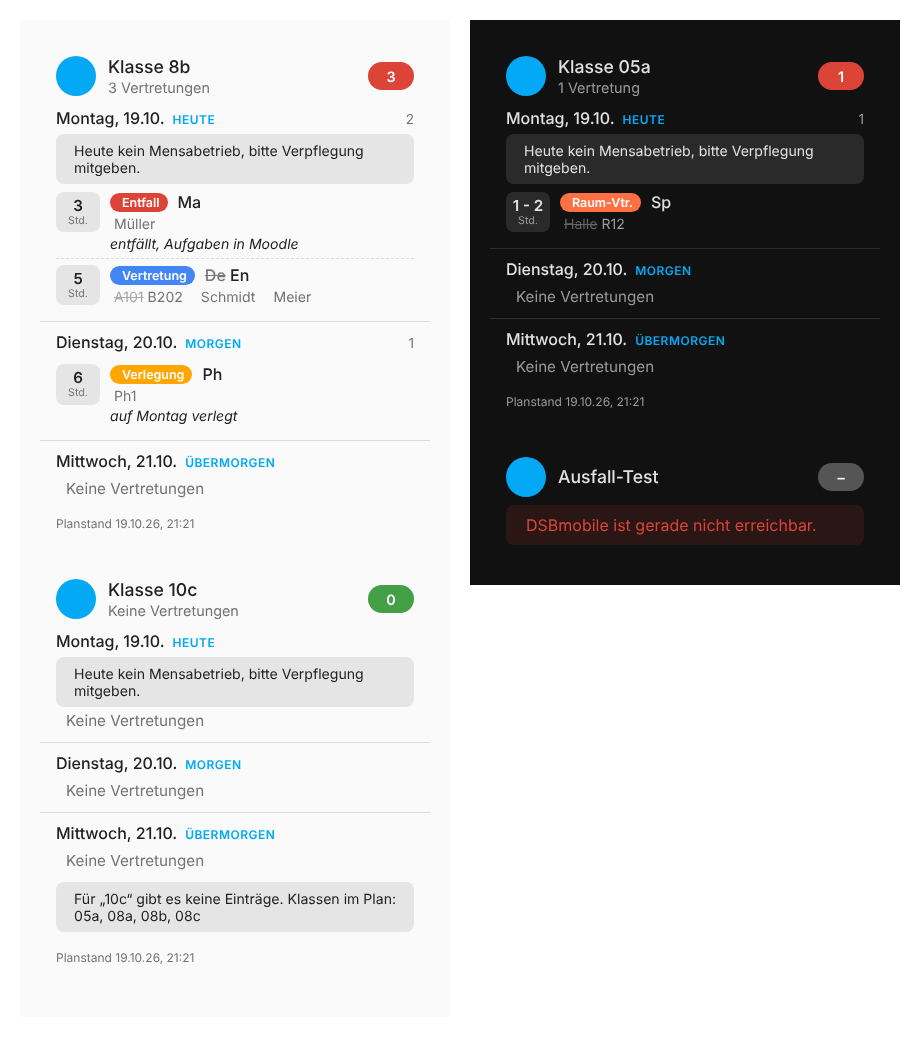
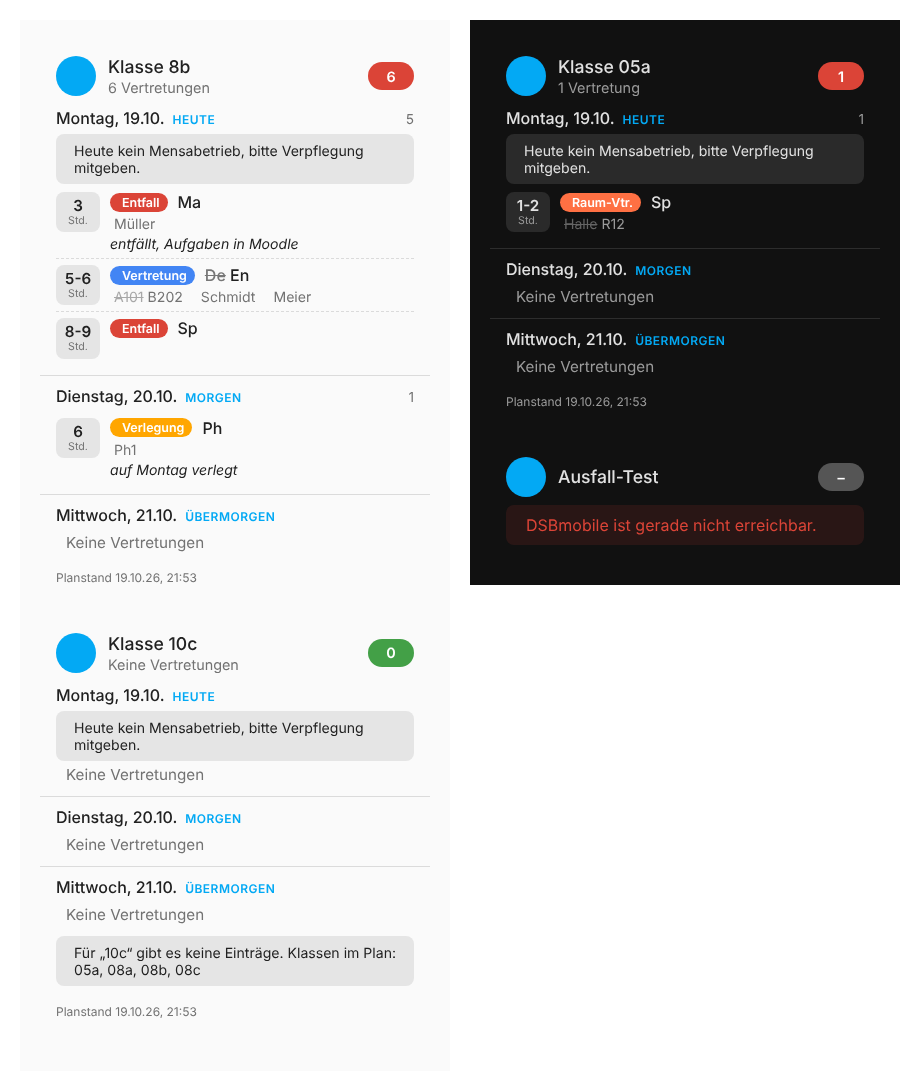
v1.1.0: Folgestunden in der Karte zusammenfassen

diff --git a/custom_components/dsb_vertretungsplan/www/dsb-vertretungsplan-card.js b/custom_components/dsb_vertretungsplan/www/dsb-vertretungsplan-card.js
@@ -12,7 +12,7 @@
 
 const CARD_TAG = "dsb-vertretungsplan-card";
 const EDITOR_TAG = "dsb-vertretungsplan-card-editor";
-const CARD_VERSION = "1.0.1";
+const CARD_VERSION = "1.1.0";
 
 const CLASS_RE = /^(\d{1,2})([a-zäöü]*)$/;
 const WEEKDAYS = ["Sonntag", "Montag", "Dienstag", "Mittwoch", "Donnerstag", "Freitag", "Samstag"];
@@ -35,6 +35,40 @@ function normalizeClass(value) {
   const m = CLASS_RE.exec(v);
   if (!m) return v;
   return `${m[1].padStart(2, "0")}${m[2]}`;
+}
+
+/** Parse "5", "5 - 6", "5-6", "5./6." into [first, last] or null. */
+function lessonRange(lesson) {
+  const nums = String(lesson || "").match(/\d+/g);
+  if (!nums || nums.length === 0) return null;
+  const first = parseInt(nums[0], 10);
+  const last = parseInt(nums[nums.length - 1], 10);
+  return last >= first ? [first, last] : [last, first];
+}
+
+function sameSubstitution(a, b) {
+  const fields = ["type", "classes", "subject", "room", "substitute", "teacher", "text"];
+  if (fields.some((f) => String(a[f] || "") !== String(b[f] || ""))) return false;
+  return JSON.stringify(a.changes || {}) === JSON.stringify(b.changes || {});
+}
+
+/**
+ * Merge consecutive lessons with identical content ("5. Std En", "6. Std En")
+ * into one row ("5-6"). Entries are expected in lesson order per day.
+ */
+function mergeConsecutive(entries) {
+  const result = [];
+  for (const entry of entries) {
+    const range = lessonRange(entry.lesson);
+    const last = result[result.length - 1];
+    if (last && range && last._range && sameSubstitution(last, entry) && range[0] === last._range[1] + 1) {
+      last._range = [last._range[0], range[1]];
+      last.lesson = `${last._range[0]}-${last._range[1]}`;
+      continue;
+    }
+    result.push({ ...entry, _range: range, lesson: range ? (range[0] === range[1] ? String(range[0]) : `${range[0]}-${range[1]}`) : entry.lesson });
+  }
+  return result;
 }
 
 function typeStyle(type) {
@@ -202,6 +236,7 @@ class DsbVertretungsplanCard extends HTMLElement {
       show_info: true,
       show_footer: true,
       compact: false,
+      merge_lessons: true,
       ...config,
     };
     if (!this.shadowRoot) this.attachShadow({ mode: "open" });
@@ -330,7 +365,8 @@ class DsbVertretungsplanCard extends HTMLElement {
     const cfg = this._config;
     const rel = relativeLabel(day.date);
     const infos = cfg.show_info && Array.isArray(day.info) ? day.info : [];
-    const rows = day.entries.map((e) => this._renderEntry(e)).join("");
+    const entries = cfg.merge_lessons === false ? day.entries : mergeConsecutive(day.entries);
+    const rows = entries.map((e) => this._renderEntry(e)).join("");
     const empty = day.entries.length === 0
       ? `<div class="empty"><ha-icon icon="mdi:check-circle-outline"></ha-icon>Keine Vertretungen</div>`
       : "";
@@ -399,6 +435,7 @@ const EDITOR_SCHEMA = [
       { name: "show_info", selector: { boolean: {} } },
       { name: "show_footer", selector: { boolean: {} } },
       { name: "compact", selector: { boolean: {} } },
+      { name: "merge_lessons", selector: { boolean: {} } },
     ],
   },
 ];
@@ -413,6 +450,7 @@ const EDITOR_LABELS = {
   show_info: "Tageshinweise zeigen",
   show_footer: "Planstand zeigen",
   compact: "Kompakt",
+  merge_lessons: "Folgestunden zusammenfassen",
 };
 
 class DsbVertretungsplanCardEditor extends HTMLElement {
@@ -451,6 +489,7 @@ class DsbVertretungsplanCardEditor extends HTMLElement {
       show_info: true,
       show_footer: true,
       compact: false,
+      merge_lessons: true,
       ...this._config,
     };
   }

diff --git a/README.md b/README.md
@@ -82,6 +82,7 @@ class: "08b"
 | `show_info`       | `true`   | Tageshinweise („Nachrichten zum Tag“) zeigen                       |
 | `show_footer`     | `true`   | Planstand unten zeigen                                             |
 | `compact`         | `false`  | nur Stunde, Art und Fach                                           |
+| `merge_lessons`   | `true`   | aufeinanderfolgende Stunden mit gleichem Inhalt als eine Zeile zeigen (`5-6. Std`) |
 
 Nach einem Update der Integration lädt der Browser die Karte über den Versions-Parameter automatisch neu; sollte sie dennoch alt aussehen, einmal die Seite hart neu laden. Findet die Karte für die eingestellte Klasse nichts, obwohl der Plan Einträge hat, zeigt sie die im Plan vorkommenden Klassen an, so lässt sich die Schreibweise der Schule schnell abgleichen.
 

diff --git a/CHANGELOG.md b/CHANGELOG.md
@@ -1,5 +1,9 @@
 # Changelog
 
+## 1.1.0
+
+- Karte: aufeinanderfolgende Stunden mit identischer Vertretung werden zu einer Zeile zusammengefasst (z. B. `5-6. Std`). Abschaltbar über die Option `merge_lessons`.
+
 ## 1.0.1
 
 - Sensor-Attribute enthalten nur noch eine Zusammenfassung je Tag; der volle Plan einer Schule überschritt die 16-KB-Grenze von Home Assistant, Attribute wurden nicht mehr gespeichert.
